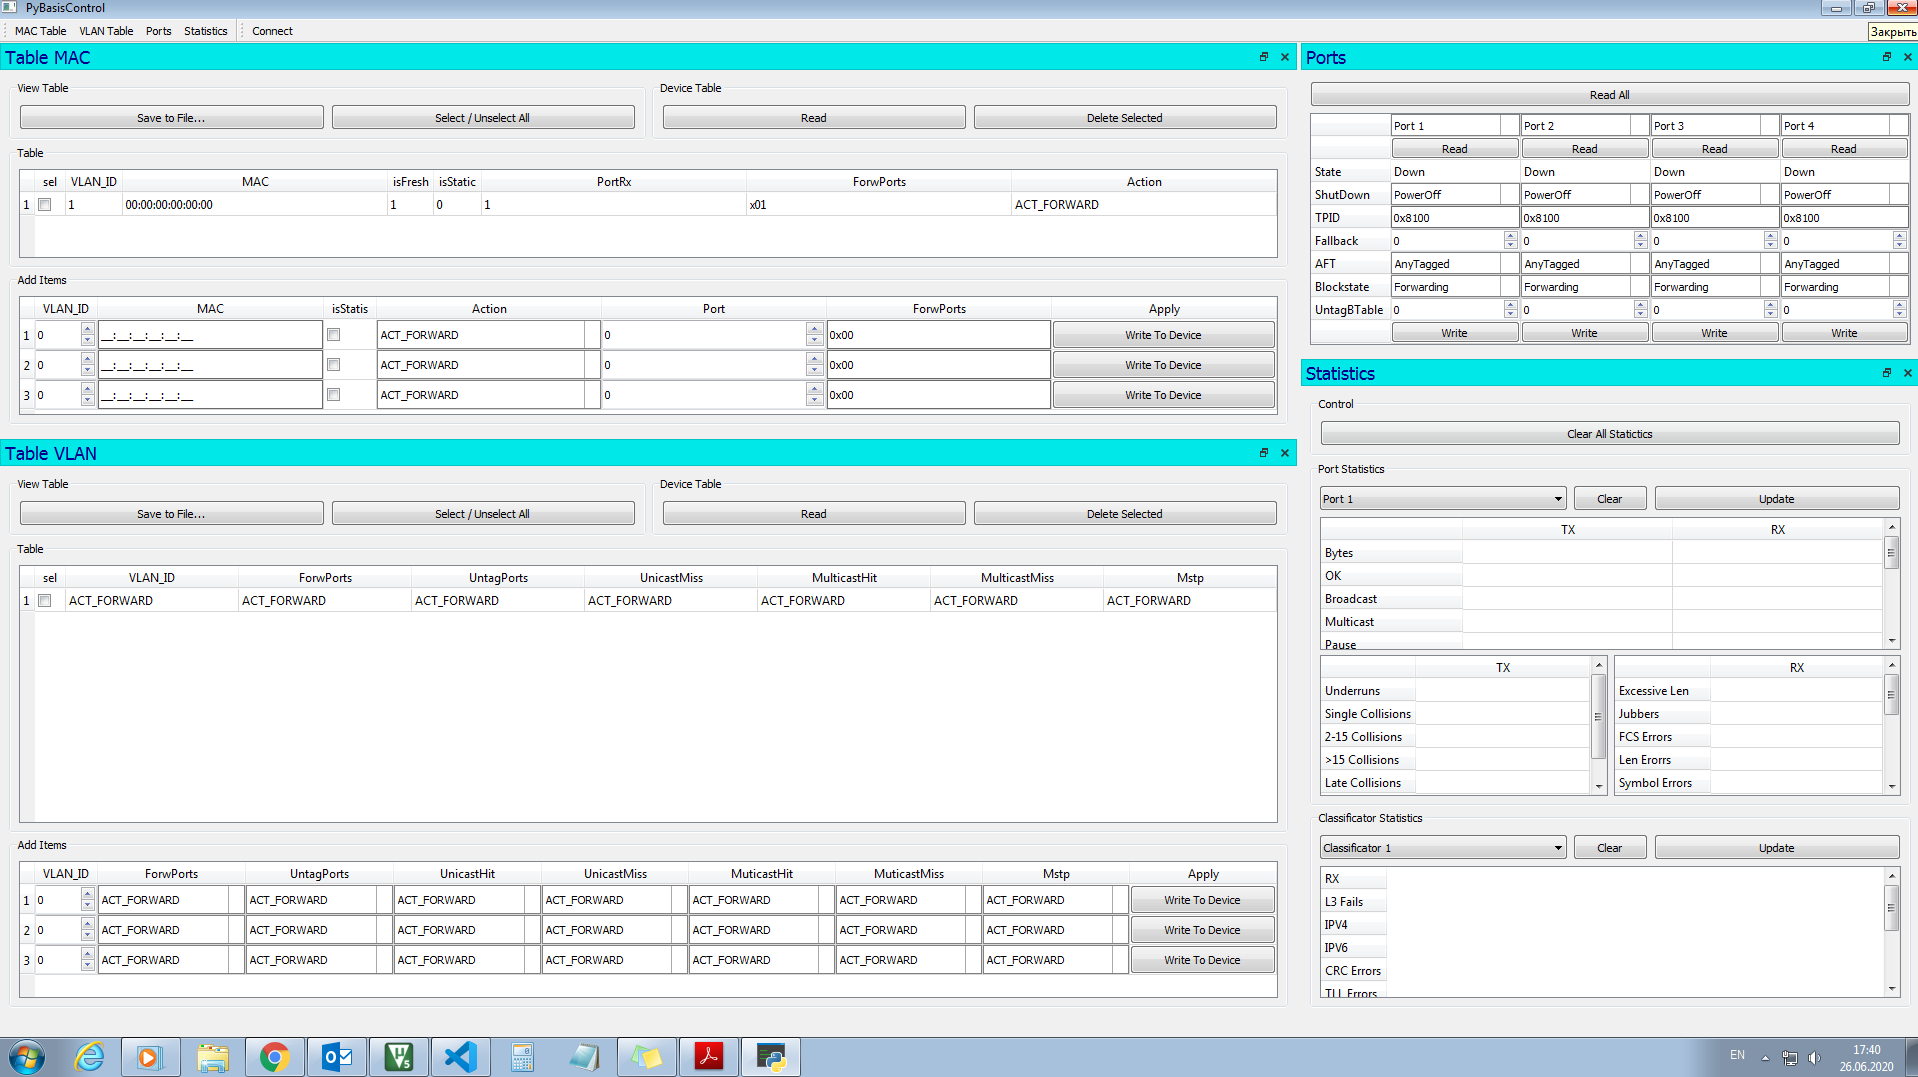
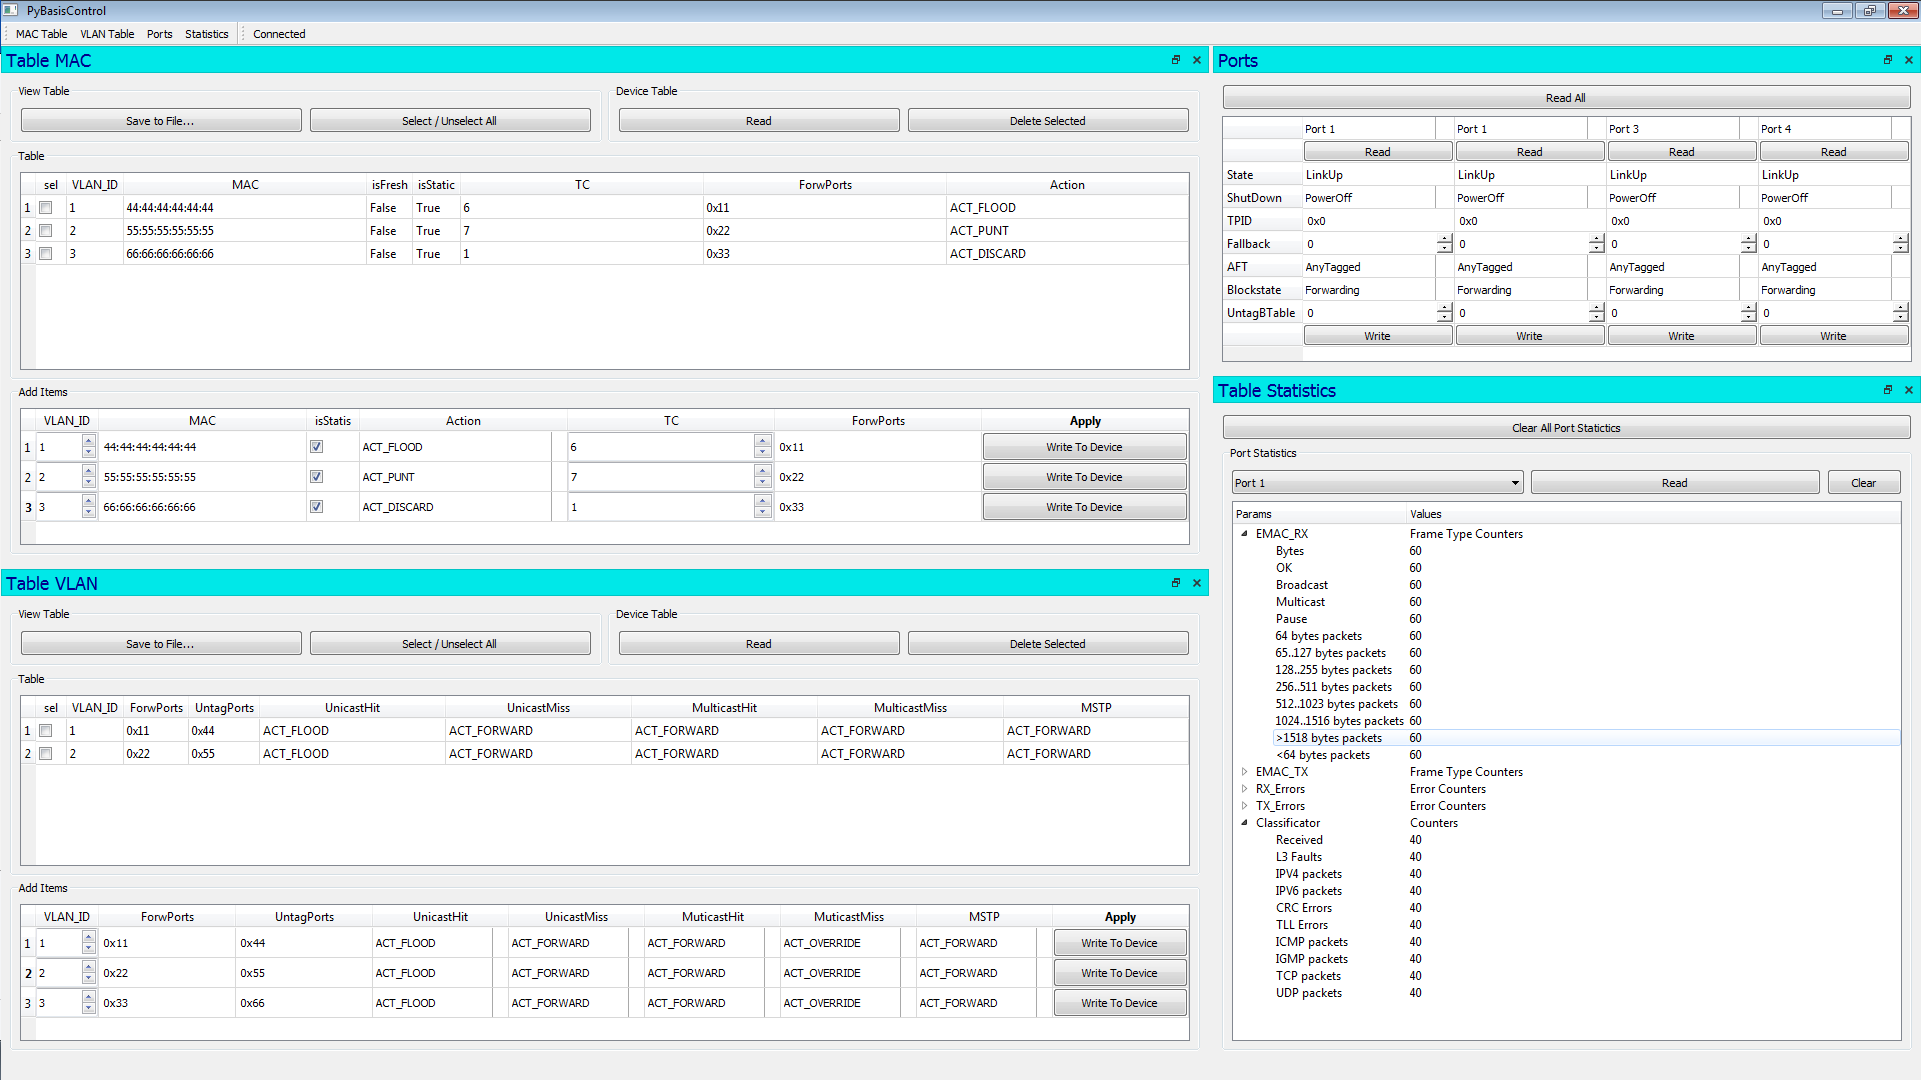
pyBasisControl - Port Control ready

diff --git a/PACK_Gen/Files/SPL/Drivers/MDR_UART_CLI.c b/PACK_Gen/Files/SPL/Drivers/MDR_UART_CLI.c
@@ -19,14 +19,19 @@ typedef __PACKED_STRUCT {
   uint8_t   buff[DMA_BUFF_LEN];  // Aligned by 4!
 } CLI_AlignedBuff;
 
-static CLI_AlignedBuff  _inpAlignedBuff  __RAM_EXEC __attribute__ ((aligned (4)));
+#ifdef DMA_NEED_EXECUTABLE_MEM_RANGE
+  static CLI_AlignedBuff  _inpAlignedBuff  __RAM_EXEC __attribute__ ((aligned (4)));
+  static CLI_AlignedBuff  _outAlignedBuff  __RAM_EXEC __attribute__ ((aligned (4)));
+#else
+  static CLI_AlignedBuff  _inpAlignedBuff  __attribute__ ((aligned (4)));
+  static CLI_AlignedBuff  _outAlignedBuff  __attribute__ ((aligned (4)));
+#endif
+
 static uint8_t         *_inpData = &_inpAlignedBuff.countLo;
 static uint16_t         _inpDataLen = 0;
 
 static uint16_t   _messLen = 0;
 
-
-static CLI_AlignedBuff  _outAlignedBuff  __RAM_EXEC __attribute__ ((aligned (4)));
 static uint8_t         *_outData = &_outAlignedBuff.countLo;
 static uint16_t         _outDataLen = 0;
 
@@ -42,9 +47,9 @@ static bool CLI_GetDataReceived(void);
 
 
 void MDR_CLI_UART_Init(uint32_t baudRate, uint32_t UART_ClockHz, MDR_UART_CfgPinsGPIO *pinsGPIO)
-{	
+{	  
   //  Init UART PIN
-	MDR_UART_InitPinsGPIO(pinsGPIO, MDR_PIN_FAST);      
+	MDR_UART_InitPinsGPIO(pinsGPIO, MDR_PIN_FAST);  
   
 	//	Подача на UARTx_Clock частоты ядра или MAX_Clock.
   MDR_UARTex_SetUartClock_InpPLLCPU(CFG_CLI_UARTex, MDR_Div128P_div1);  
@@ -72,8 +77,9 @@ void MDR_CLI_UART_Init(uint32_t baudRate, uint32_t UART_ClockHz, MDR_UART_CfgPin
 	};  
   
 	MDR_UARTex_InitByBaud(CFG_CLI_UARTex, &cfgUART, &cfgBaud);	  
+  //  Clear FIFO and RX Event
   MDR_UART_ClearRxFIFO(_CLI_UART);
-  MDR_UART_ClearEventsIRQ(_CLI_UART, MDR_UART_EFL_RT);    
+  MDR_UART_ClearEventsIRQ(_CLI_UART, MDR_UART_EFL_ALL);
   
   //  Init DMA
   CLI_DMA_Init();
@@ -135,9 +141,9 @@ static void CLI_DMA_Init(void)
 
 #define MESS_MIN_LEN    3
 #define MESS_GET_CMD    (_inpData[1] & CLI_CMD_MSK)
-#define MESS_GET_LEN   ( (uint16_t)_inpData[0] | ((uint16_t)(_inpData[1] & 0xC0) << 3) )
+#define MESS_GET_LEN   ( (uint16_t)_inpData[0] | ((uint16_t)(_inpData[1] & 0xC0) << 2) )
 
-#define MESS_SET_HEADER(arr, cmd, len)    arr[1] = (uint8_t)(((uint16_t)(len) >> 3) & 0x00C0) | (uint8_t)(cmd); \
+#define MESS_SET_HEADER(arr, cmd, len)    arr[1] = (uint8_t)(((uint16_t)(len) >> 2) & 0x00C0) | (uint8_t)(cmd); \
                                           arr[0] = (uint8_t)(len);
 
 #define MESS_HEADER_LEN   2    
@@ -157,9 +163,11 @@ static bool CLI_GetDataReceived(void)
   // Наличие флага TimeoutRx говорит о том, что оно слово еще лежит в FIFO
   // Потому что DMA выяитывает блоками по 2 слова
   bool hasNewData = _CLI_UART->RIS & MDR_UART_EFL_RT;
+  //MDR_DMA_ChCtrl ctrl = MDR_DMA_GetChCtrlPri(CFG_CLI_DMA_ChanRX);
   if (hasNewData)    
   {
     MDR_UART_ClearEventsIRQ(_CLI_UART, MDR_UART_EFL_RT);
+    //MDR_UART_ClearEventsIRQ(_CLI_UART, MDR_UART_EFL_ALL);
 
     // Проверяем, что пришло байт не меньше 3-х (Два скачало DMA, одно еще в FIFO)
     // Если меньше - выходим, ждем следующий приход данных

diff --git a/Utils/pyBasisCtrl/pyBasisPort.py b/Utils/pyBasisCtrl/pyBasisPort.py
@@ -18,6 +18,8 @@ ROW_BLOCKSTATE  = 7
 ROW_UNTAG_BT    = 8
 ROW_WRITE       = 9
 
+LinkState_Str = ['LinkDown', 'LinkUp']        
+
 class PyBasisWindowPort(QtWidgets.QWidget, Ui_Form):
     # Constructor
     def __init__(self, parent=None):
@@ -31,6 +33,7 @@ class PyBasisWindowPort(QtWidgets.QWidget, Ui_Form):
         self.comCLI = None
         self.saveFileName = str(Path().absolute()) + '/saves/Ports.ini'
         self.RestoreWidgets()
+        self.btUpdateAll.clicked.connect(self.readAllPorts)        
 
         
     def __del__(self):
@@ -94,13 +97,26 @@ class PyBasisWindowPort(QtWidgets.QWidget, Ui_Form):
         emac = self.tblPorts.cellWidget(ROW_PORT, index.column()).currentIndex()
         itemPort = self.GUI_GetItemPort(index.column())
         self.comCLI.writePortCfg(emac, itemPort)
-        printObj(itemPort)
+
+
+    def readPort(self, col):
+        emac = self.tblPorts.cellWidget(ROW_PORT, col).currentIndex()
+        #Read Config
+        itemPort = self.comCLI.readPortCfg(emac)
+        self.GUI_SetItemPort(col, itemPort)
+        #Read LinkStatus
+        netStat = self.comCLI.readAxiRegList([ kx028_EmacAdr[emac] + EMAC_NETSTAT ])
+        if netStat != None:
+            self.tblPorts.item(ROW_STAT, col).setText(LinkState_Str[netStat[0] & EMAC_NETSTAT_LINK_Msk])
+        else:
+            self.tblPorts.item(ROW_STAT, col).setText('Error')
 
     def readItemPort(self):
         button = self.sender()
         index = self.tblPorts.indexAt(button.pos())
-        emac = self.tblPorts.cellWidget(ROW_PORT, index.column()).currentIndex()
-        itemPort = self.comCLI.readPortCfg(emac)
-        self.GUI_SetItemPort(index.column(), itemPort)
-        printObj(itemPort)
-                
+        self.readPort(index.column())
+        
+    def readAllPorts(self):
+        for i in range(self.tblPorts.columnCount()):
+            self.readPort(i)
+        

diff --git a/Utils/pyBasisCtrl/pyBasisRes.py b/Utils/pyBasisCtrl/pyBasisRes.py
@@ -30,6 +30,7 @@ def _FLD2VAL(value, valPos, ValMsk):
 
 
 '''
+#--- for EMac DefConfig ---
 PORT0_STRUC1  = 0x46c 
 PORT1_STRUC1  = 0x474 
 PORT2_STRUC1  = 0x47c
@@ -70,6 +71,33 @@ CLASS1_BASE_ADDR = 0x620000
 CLASS2_BASE_ADDR = 0x770000
 '''
 
+#---  for EMAC Status ---
+EMAC_NETSTAT		        = 0x0008 
+EMAC_NETSTAT_LINK_Msk	  = 0x0001
+
+EMAC1_BASE_ADDR  = 0x660000
+EMAC2_BASE_ADDR  = 0x670000
+EMAC3_BASE_ADDR  = 0x680000
+EMAC4_BASE_ADDR  = 0x690000
+EMAC5_BASE_ADDR  = 0x6A0000
+EMAC6_BASE_ADDR  = 0x6B0000
+EMAC7_BASE_ADDR  = 0x6C0000
+EMAC8_BASE_ADDR  = 0x6D0000
+EMAC9_BASE_ADDR  = 0x6E0000
+EMAC10_BASE_ADDR = 0x6F0000
+EMAC11_BASE_ADDR = 0x760000
+EMAC12_BASE_ADDR = 0x710000
+EMAC13_BASE_ADDR = 0x720000
+EMAC14_BASE_ADDR = 0x730000
+EMAC15_BASE_ADDR = 0x740000
+EMAC16_BASE_ADDR = 0x750000
+
+kx028_EmacAdr = [EMAC1_BASE_ADDR,  EMAC2_BASE_ADDR,  EMAC3_BASE_ADDR,  EMAC4_BASE_ADDR,  EMAC5_BASE_ADDR, \
+                 EMAC6_BASE_ADDR,  EMAC7_BASE_ADDR,  EMAC8_BASE_ADDR,  EMAC9_BASE_ADDR,  EMAC10_BASE_ADDR, \
+                 EMAC11_BASE_ADDR, EMAC12_BASE_ADDR, EMAC13_BASE_ADDR, EMAC14_BASE_ADDR, EMAC15_BASE_ADDR, \
+                 EMAC16_BASE_ADDR]
+
+#--- for EMac DefConfig ---
 PORT0_STRUC1  = 0 
 PORT1_STRUC1  = 1 
 PORT2_STRUC1  = 2

diff --git a/PACK_Gen/Files/SPL/Devices/Defines/MDR_UART_defs.h b/PACK_Gen/Files/SPL/Devices/Defines/MDR_UART_defs.h
@@ -190,7 +190,7 @@ typedef struct {
 /* ==========================================  IMSC - IRQ Mask Set/Clear register ======================================== */
 /* ==========================================  RIS  - Raw Interrupt Status register  ===================================== */
 /* ==========================================  MIS  - Masked Interrupt Status register =================================== */
-/* ==========================================  IC   - Interrupt Clear register =========================================== */
+/* ==========================================  ICR  - Interrupt Clear register =========================================== */
 
 typedef struct {
   __IOM MDR_OnOff RIM     : 1;            /*!< [0..0] RI Modem IRQ Mask                                                  */

diff --git a/Utils/pyBasisCtrl/PyComPortTransf.py b/Utils/pyBasisCtrl/PyComPortTransf.py
@@ -52,11 +52,11 @@ class ComPortTransf():
   def transfer(self, byteBuffTx, byteDataBuffRx):
     if self.started:
       self.comPort.write(byteBuffTx)
-      print('Send {} bytes'.format(len(byteBuffTx)))
+      #print('Send {} bytes'.format(len(byteBuffTx)))
 
       byteDataBuffRx.data = self.comPort.read(self.maxMessageLen)
       byteDataBuffRx.dataLen = len(byteDataBuffRx.data)
-      print('Received {} bytes'.format(byteDataBuffRx.dataLen))
+      #print('Received {} bytes'.format(byteDataBuffRx.dataLen))
       return byteDataBuffRx.dataLen
     else:
       return 0  

diff --git a/Utils/pyBasisCtrl/KX028_CLI.py b/Utils/pyBasisCtrl/KX028_CLI.py
@@ -103,7 +103,7 @@ class KX028_CLI:
       #print('b1={}, b2={}'.format(b1, b2))
       messLen = b1 | ((b2 & 0xC0) << 2)
       rxCmd = b2 & 0x3F
-      print('cmd={} , messLen={}'.format(rxCmd, messLen))
+      #print('cmd={} , messLen={}'.format(rxCmd, messLen))
       dataLen = len(self.buffRx.data)
       if IsEvenNum(messLen):
         protocolOk = dataLen == messLen + 1

diff --git a/PACK_Gen/Files/SPL/Drivers/MDR_UART_CfgRegs.h b/PACK_Gen/Files/SPL/Drivers/MDR_UART_CfgRegs.h
@@ -107,6 +107,8 @@ typedef struct {
 #define MDR_UART_EFL_BE          MDR_UART_EVENT_BE_Msk
 #define MDR_UART_EFL_OE          MDR_UART_EVENT_OE_Msk
 
+#define MDR_UART_EFL_ALL        MDR_UART_EVENT_ClearAll
+
 #ifdef MDR_UART_HAS_LEN9
   #define MDR_UART_EFL_RX_FNE    MDR_UART_EVENT_RX_FNE_Msk
   #define MDR_UART_EFL_TX_FE     MDR_UART_EVENT_TX_FE_Msk
